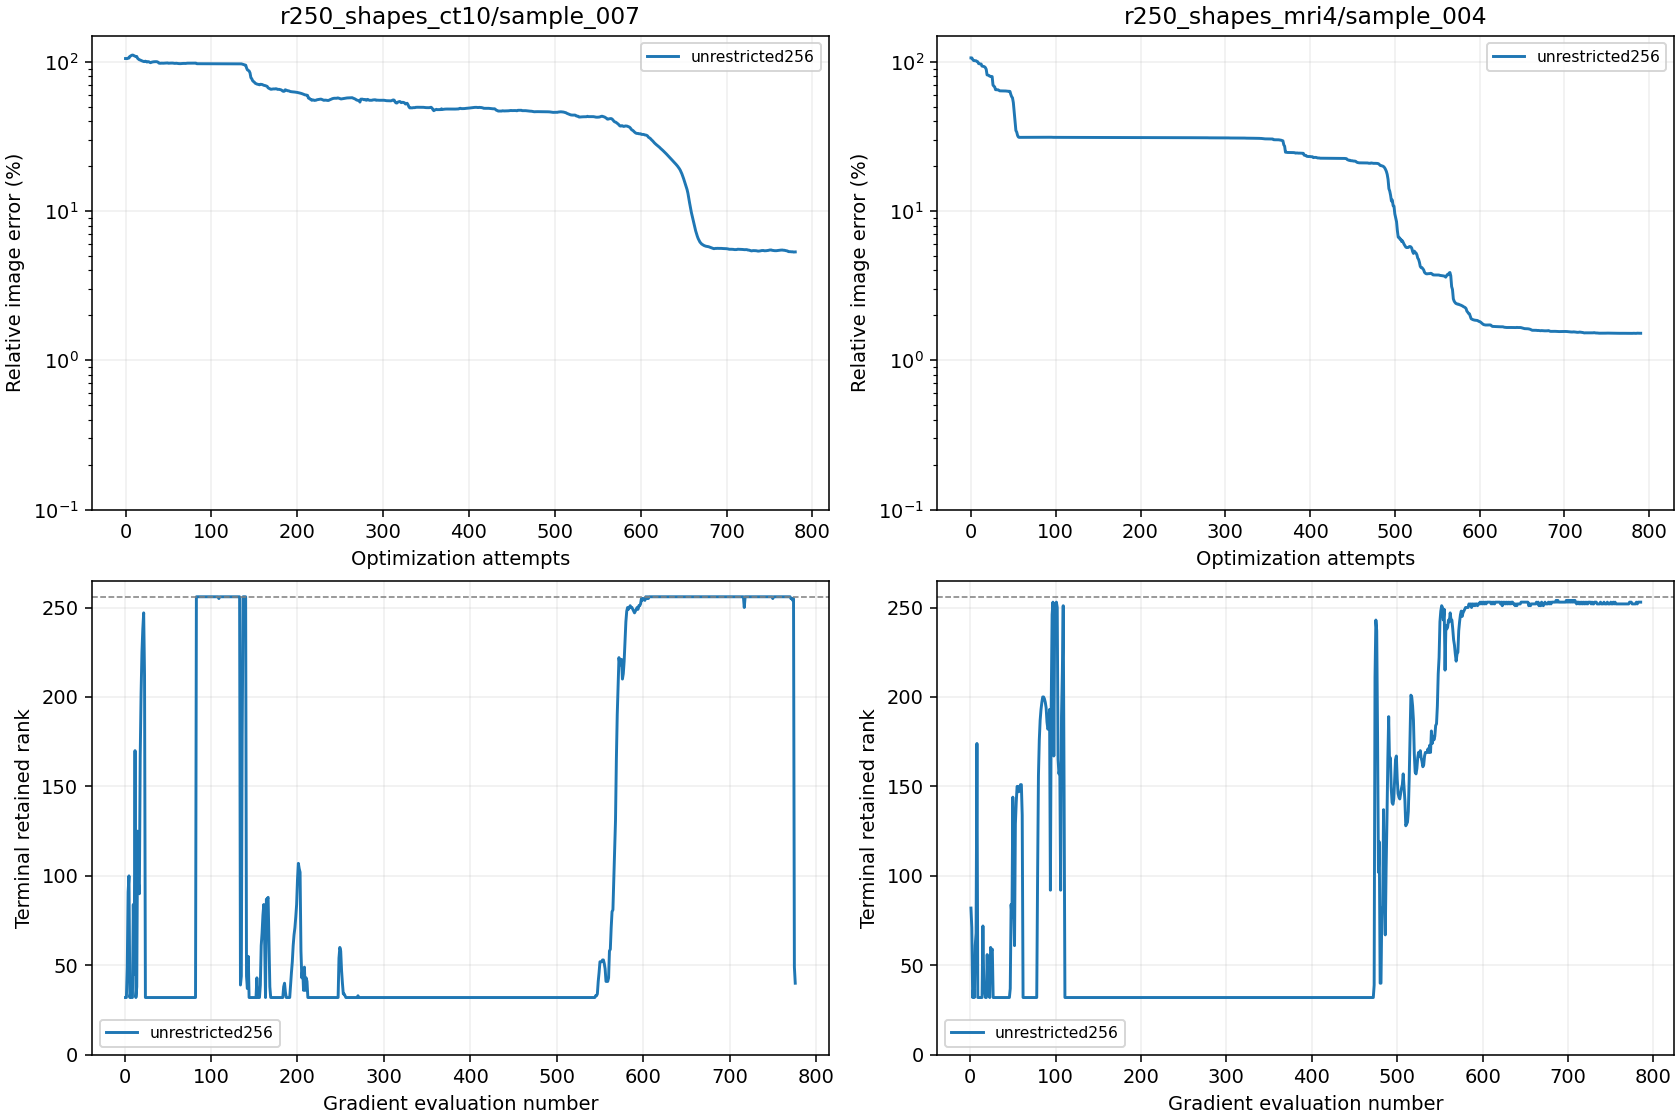
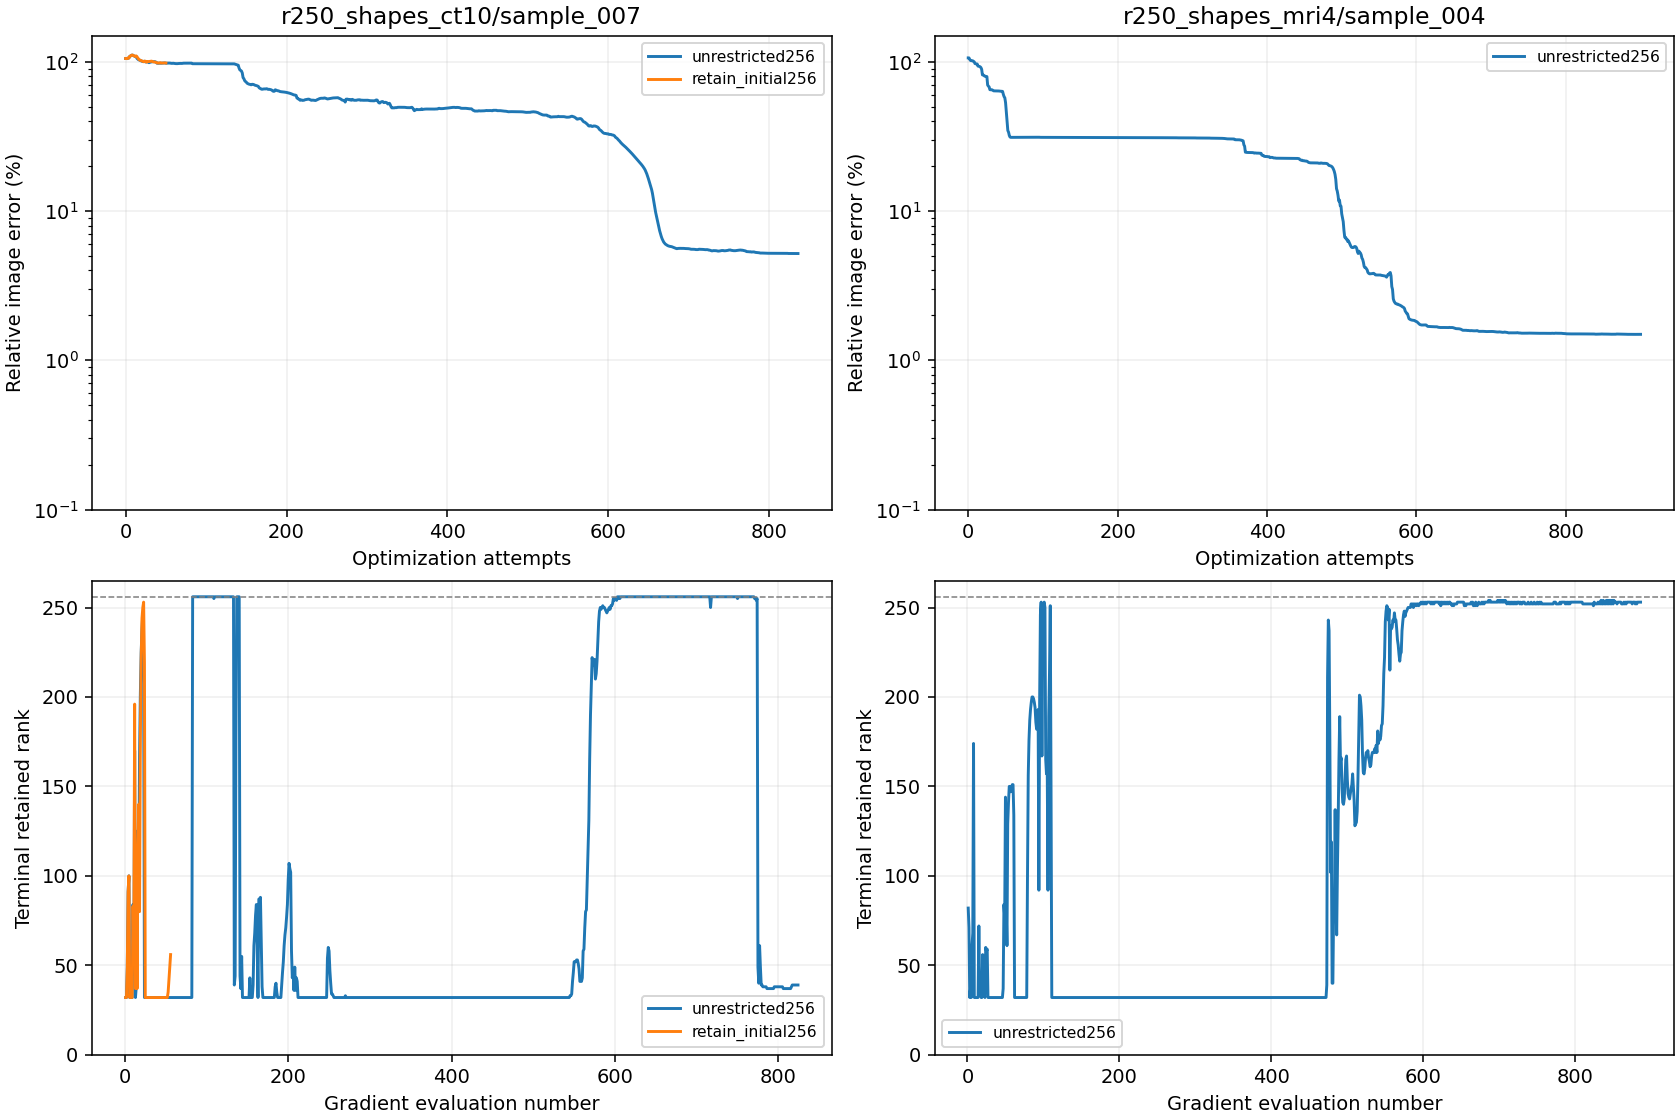
Verify completed high-rank CT control and plateau curvature diagnostic

diff --git a/experiments/separated_shapes_117k/optimizer_direction_audit.py b/experiments/separated_shapes_117k/optimizer_direction_audit.py
@@ -4,6 +4,7 @@ from __future__ import annotations
 import argparse
 import hashlib
 import json
+import math
 from pathlib import Path
 
 import torch
@@ -25,6 +26,8 @@ def main() -> None:
     parser.add_argument("--line-trials", action="store_true")
     parser.add_argument("--trial-starting-displacement", type=float, default=0.,
         help="Diagnostic line-search starting length; zero uses the saved optimizer proposal")
+    parser.add_argument("--append-secant-from", type=Path,
+        help="Diagnostic only: append the aggregate source/gradient secant from an earlier saved state")
     args = parser.parse_args()
     if not 0 <= args.minimum_direction_cosine < 1:
         parser.error("Minimum direction cosine must lie in [0,1)")
@@ -72,6 +75,25 @@ def main() -> None:
     exact, = torch.autograd.grad(objective, source)
     exact = exact.flatten()
     state = saved["optimizer"]
+    secant = None
+    if args.append_secant_from is not None:
+        earlier = torch.load(args.append_secant_from, map_location="cpu", weights_only=True)
+        for key in ("checkpoint_sha256", "operator", "source_seed"):
+            assert earlier["protocol"][key] == protocol[key]
+        assert earlier["protocol"]["precision_recovery"]["settings"] == settings
+        assert earlier["optimizer"]["step_attempts"] < state["step_attempts"]
+        displacement = (saved["source"]-earlier["source"]).flatten()
+        change = state["g"].flatten()-earlier["optimizer"]["g"].flatten()
+        curvature = float(displacement.dot(change))
+        cosine = curvature/float(displacement.norm()*change.norm())
+        if not math.isfinite(cosine) or cosine < 1e-3:
+            raise FloatingPointError("Aggregate secant does not have reliably positive curvature")
+        secant = dict(source=str(args.append_secant_from), from_step=earlier["optimizer"]["step_attempts"],
+            to_step=state["step_attempts"], curvature=curvature, curvature_cosine=cosine,
+            inverse_scale=curvature/float(change.square().sum()),
+            note="Aggregate secant, not an individual rejected pair or exact Hessian measurement")
+        state = {**state, "S": (state["S"]+[displacement])[-settings["optimizer"]["history_size"]:],
+                 "Y": (state["Y"]+[change])[-settings["optimizer"]["history_size"]:]}
     approximate = state["g"].to(device).flatten()
     direction = lbfgs_direction(approximate, [s.to(device) for s in state["S"]],
         [y.to(device) for y in state["Y"]])
@@ -127,6 +149,7 @@ def main() -> None:
         direction_norm_before_normalization=float(norm), fallback=bool(used_fallback),
         minimum_direction_cosine=args.minimum_direction_cosine, line_trials=line_trials,
         trial_starting_displacement=args.trial_starting_displacement,
+        appended_secant=secant,
         direction_error_slope_fraction=float((exact-approximate).dot(direction)/abs(predicted_slope)),
         exact_direction_cosine=float(-exact.dot(direction)/exact.norm()),
         finite_differences=finite_differences,

diff --git a/experiments/separated_shapes_117k/progressive_rank_report.py b/experiments/separated_shapes_117k/progressive_rank_report.py
@@ -42,6 +42,8 @@ def main() -> None:
                 last_terminal_rank=records[-1]["ranks"][-1]["rank"],
                 last_rank_path=[x["rank"] for x in records[-1]["ranks"][1:]],
                 last_rank_objective=records[-1]["objective"],
+                initial_rank_below_cap_evaluations=sum(record["ranks"][1]["rank"] < 256 for record in records),
+                rank_evaluations=len(records),
                 terminal_at_cap_fraction=sum(record["ranks"][-1]["rank"] == 256 for record in records)/len(records))
             rows.append(row)
             lines.append(f"| {name} | {variant} | {row['status']} | {row['attempt']} | {row['image_error']:.3f}% | {row['residual']:.3f}% | {row['first_terminal_rank']} | {row['last_terminal_rank']} |")
@@ -55,6 +57,9 @@ def main() -> None:
         for axis in axes[:, column]:
             axis.legend(fontsize=8)
             axis.grid(alpha=.2)
+    for row in rows:
+        if row["variant"] == "unrestricted256":
+            lines += ["", f"{row['case']}: unrestricted initialization retained fewer than 256 directions in {row['initial_rank_below_cap_evaluations']}/{row['rank_evaluations']} recorded evaluations. Where it already retains 256, the initialization-only floor changes no retained rank. Differences from that control cannot automatically be attributed to a rank-policy improvement; floating-point execution variability and trajectory divergence remain possible."]
     lines += ["", "Rank is measured on the approximated residual core with relative cutoff 0.001, not on a certified exact Jacobian. A small initial terminal rank does not imply that the same rank remains sufficient at later optimized sources. Retaining nearly the full cap indicates limited compression under this criterion, not proof that the true Jacobian requires that many directions.", "",
         "Rank and image curves have different horizontal axes: gradient evaluations versus optimizer attempts. The last rank record may precede the latest accepted source; they should not be interpreted as a fixed-point pair. Duplicated evaluation numbers after checkpoint recovery use the most recent record. All curves are partial until their saved status is terminal.", "",
         "The gradual policy limits shrinking inside each flow pass. Rank can rise across optimizer iterations because each new gradient initializes a new maximum-rank sketch. Accuracy comparisons between policies require completed paired runs or common completed prefixes; no such comparison is claimed while other policies are pending.", "",

diff --git a/experiments/experiments-2026-10-22.md b/experiments/experiments-2026-10-22.md
@@ -61,3 +61,4 @@
 | 14:13 | Test objective geometry between failed and successful sources | Paired P-Flow success proves useful images are representable; distinguish vanishing gradients from narrow descent regions and barriers at failed D-Flow/DLR endpoints. | Six retrospective MRI250 endpoints, including two corrected DLR, native FP64 five-step maps. Corrected DLR largest tested decreasing negative-exact-gradient displacements1e-6/1e-7; all direct bridges to successful P-Flow sources initially rise. | Paired protocol/model/masks verified; saved FP32 endpoints reproduced. Central finite differences at1e-8 agree within3.8e-6 of exact gradient norm; promoted endpoint shift at most0.451%. This is a fixed-source diagnostic, not a GD reconstruction or proof all escape paths are blocked. Figure inspected. | Recorded14:13; short GPU1 diagnostic complete, live rank/optimizer controls untouched. | No default promotion. Preserve subspace and local-geometry explanations separately. Evidence: dataset_difficulty/source_bridge_report.md and source_bridge_refined.json under outputs/separated_shapes_117k_diagnosis_20261022/. |
 | 14:23 | Quantify derivative precision sensitivity and test prevention | Narrow descent regions may make the map sensitive to ordinary FP32 rounding; compare failed versus successful sources and test cheaper precision changes before proposing full FP64. | Native gradients at six failed endpoints differ5.7–309.8% from FP64, versus0.019–0.120% at five successful endpoints. GroupNorm-only/Euler-state-only precision changes are inconsistent. Launch paired rank32 FP32/FP64 from original MRI250 sample0 source with unchanged five-step map and optimizer budget. | Exact source/model/operator pairing; native FP64 gradients reproduce the finite-difference-validated bridge references. Initial FP32/FP64 DLR/backend discrepancies1.02e-5/1.76e-14 with identical endpoints and paired source hashes. FP32 completes64 attempts at99.844% image error; FP64 is running. No DLR truncation in the precision diagnostic. | Recorded14:23; diagnostic complete, from-start worker1640980 verified live onGPU1. Other controls remain live, baseline intentionally suspended. | Reject partial-precision defaults; full-precision prevention control pending. Evidence: dataset_difficulty/endpoint_precision_report.md and precision_from_start_mri0/ under outputs/separated_shapes_117k_diagnosis_20261022/. |
 | 14:31 | Track rank through improving high-start reconstructions | A small terminal rank at initial source may not remain sufficient as optimization changes the generator trajectory; inspect rank and image error together. | Verified CT7 at780 attempts5.324% and MRI4 at790 attempts1.518%. Both use near-cap ranks during major improvements; latest CT rank drops40 while MRI remains253. Add repeatable convergence/rank reporter with pending-policy labels and deduplicated post-resume evaluation records. FP64 from-start control remains near99.75% at40 attempts. | Saved-array verifier passes pairing, metrics, monotone objectives, caps, rank bounds and preserved pre-OOM histories. Figure inspected. Rank curves use gradient-evaluation indices, distinct from optimizer attempts; no fixed-point pairing or causal policy claim. | Recorded14:31; all four active GPU1 workers verified live, baseline intentionally suspended. | Keep paired controls running; no rank/default or precision-cure claim. Evidence: progressive_rank/latest_progress.md, latest_progress.json/png and live_verification.json under outputs/separated_shapes_117k_diagnosis_20261022/. |
+| 14:40 | Complete first high-start CT arm and audit discarded curvature | Wide early bases may preserve useful directions; fixed absolute curvature thresholds can suppress useful inverse-scale updates at tiny accepted steps. | CT7 unrestricted256 completes836 attempts at5.194% image error/0.929% residual, versus earlier max128 floor32 control3.428%. All824 unique initial ranks already256. At identical CT200 step310, aggregate secant gives5.32e-6 objective decrease versus original2.99e-11; cap-started original direction gives1.99e-5. | Saved-array/high-start verifier passes; native same-state endpoints/objectives match and directional finite differences agree within1e-6. Aggregate secant is not a per-step admission history. Tensor snapshots remain local/ignored. | Recorded14:40; CT next policy active; remaining controls verified live onGPU1. | No curvature-rule change or extra reconstruction variant. Existing cap-start control remains queued. Wider rank cap is not uniformly superior; initial-retention-only differences require numerical-variability caution. Evidence: progressive_rank/latest_progress.md and full_map_audit/ct1_aggregate_secant_report.md. |

diff --git a/outputs/separated_shapes_117k_diagnosis_20261022/progressive_rank/latest_progress.md b/outputs/separated_shapes_117k_diagnosis_20261022/progressive_rank/latest_progress.md
@@ -4,12 +4,16 @@ Paired five-Euler-step, noiseless, FP32 controls with maximum rank 256, floor 32
 
 | Case | Policy | Status | Attempts | Image error | Measurement residual | First terminal rank | Last recorded terminal rank |
 |---|---|---|---:|---:|---:|---:|---:|
-| r250_shapes_ct10/sample_007 | unrestricted256 | running | 780 | 5.324% | 0.973% | 32 | 40 |
-| r250_shapes_ct10/sample_007 | retain_initial256 | Pending | — | — | — | — | — |
+| r250_shapes_ct10/sample_007 | unrestricted256 | stalled | 836 | 5.194% | 0.929% | 32 | 39 |
+| r250_shapes_ct10/sample_007 | retain_initial256 | running | 50 | 98.084% | 74.726% | 32 | 56 |
 | r250_shapes_ct10/sample_007 | gradual256 | Pending | — | — | — | — | — |
-| r250_shapes_mri4/sample_004 | unrestricted256 | running | 790 | 1.518% | 0.805% | 82 | 253 |
+| r250_shapes_mri4/sample_004 | unrestricted256 | running | 900 | 1.493% | 0.788% | 82 | 253 |
 | r250_shapes_mri4/sample_004 | retain_initial256 | Pending | — | — | — | — | — |
 | r250_shapes_mri4/sample_004 | gradual256 | Pending | — | — | — | — | — |
+
+r250_shapes_ct10/sample_007: unrestricted initialization retained fewer than 256 directions in 0/824 recorded evaluations. Where it already retains 256, the initialization-only floor changes no retained rank. Differences from that control cannot automatically be attributed to a rank-policy improvement; floating-point execution variability and trajectory divergence remain possible.
+
+r250_shapes_mri4/sample_004: unrestricted initialization retained fewer than 256 directions in 0/886 recorded evaluations. Where it already retains 256, the initialization-only floor changes no retained rank. Differences from that control cannot automatically be attributed to a rank-policy improvement; floating-point execution variability and trajectory divergence remain possible.
 
 Rank is measured on the approximated residual core with relative cutoff 0.001, not on a certified exact Jacobian. A small initial terminal rank does not imply that the same rank remains sufficient at later optimized sources. Retaining nearly the full cap indicates limited compression under this criterion, not proof that the true Jacobian requires that many directions.
 

diff --git a/outputs/separated_shapes_117k_diagnosis_20261022/full_map_audit/ct1_aggregate_secant_report.md b/outputs/separated_shapes_117k_diagnosis_20261022/full_map_audit/ct1_aggregate_secant_report.md
@@ -1,0 +1,17 @@
+# Small curvature information at the CT plateau
+
+At the same saved CT200 sample1 source (attempt310), compare the original three-pair L-BFGS history, that history plus the aggregate secant from attempts250–310, and the unchanged direction with cap-started geometric Armijo. Native FP64 endpoint/objective values agree exactly with the saved state; finite differences confirm the directional derivatives.
+
+| Control | Direction norm before cap | Accepted displacement | Objective decrease | Trials |
+|---|---:|---:|---:|---:|
+| Original history | 8.65603e-08 | 8.65603e-08 | 2.98521e-11 | 1 |
+| Append aggregate secant | 37.6392 | 0.125 | 5.31641e-06 | 5 |
+| Original history; cap start | 8.65603e-08 | 0.125 | 1.98903e-05 | 5 |
+
+The aggregate secant has s dot y = 4.016e-16 and curvature cosine 0.1445. Its scale is below the optimizer's fixed 1e-10 admission threshold. Appending it produces a genuinely descending direction and restores a useful step size. This is an aggregate secant across 60 steps, not a measurement of every rejected per-step curvature pair.
+
+Cap-starting the unchanged ray gives a larger one-step decrease than appending this pair. Thus the observed tiny proposal can already be addressed by the simpler queued starting-length control. These fixed-point results do not establish reconstruction accuracy or long-term superiority of either approach. No curvature-admission rule has been changed, and no additional reconstruction variant is launched.
+
+The approximate gradient still has 91.24% relative error against the exact gradient here. Recovering useful step lengths does not solve the missing-direction problem.
+
+[Original](ct1_aggregate_secant_baseline.json) · [Aggregate secant](ct1_aggregate_secant.json) · [Cap-started](ct1_cap_started_at310.json)

diff --git a/outputs/separated_shapes_117k_diagnosis_20261022/investigation_report.md b/outputs/separated_shapes_117k_diagnosis_20261022/investigation_report.md
@@ -104,3 +104,11 @@ The verified high-start checkpoints at14:30 reach CT250 sample7 image error5.324
 Within a single zero-enrichment flow pass, rank can only shrink. Across optimizer iterations, the source changes and each refresh initializes at the maximum rank, so terminal rank can rise again. The observed rank trajectories argue against assuming that a small terminal rank at initialization remains sufficient throughout optimization. They do not establish a causal benefit for the gradual policy before its paired controls run.
 
 [Latest convergence and terminal-rank curves](progressive_rank/latest_progress.md).
+
+## First completed high-start control and plateau secant check
+
+CT250 sample7 unrestricted256 completes at5.194% image error and0.929% measurement residual after836 attempts with the existing rejection safeguard. The earlier maximum128/floor32 control achieved3.428%, so the wider cap is not an established accuracy improvement. Initialization retained256 in all824 unique recorded evaluations of the completed run: forcing that initial rank changes no ranks along this observed trajectory. Its separate control also probes execution variability; do not attribute a difference to rank retention automatically. Other policies remain pending or active.
+
+At the same CT200 plateau source, appending the discarded positive aggregate secant improves one-step objective decrease2.99e-11 to5.32e-6. Cap-starting the unchanged direction improves it further to1.99e-5. Keep the existing cap-start control queued rather than adding a new curvature-policy variant.
+
+[Curvature diagnostic](full_map_audit/ct1_aggregate_secant_report.md).
